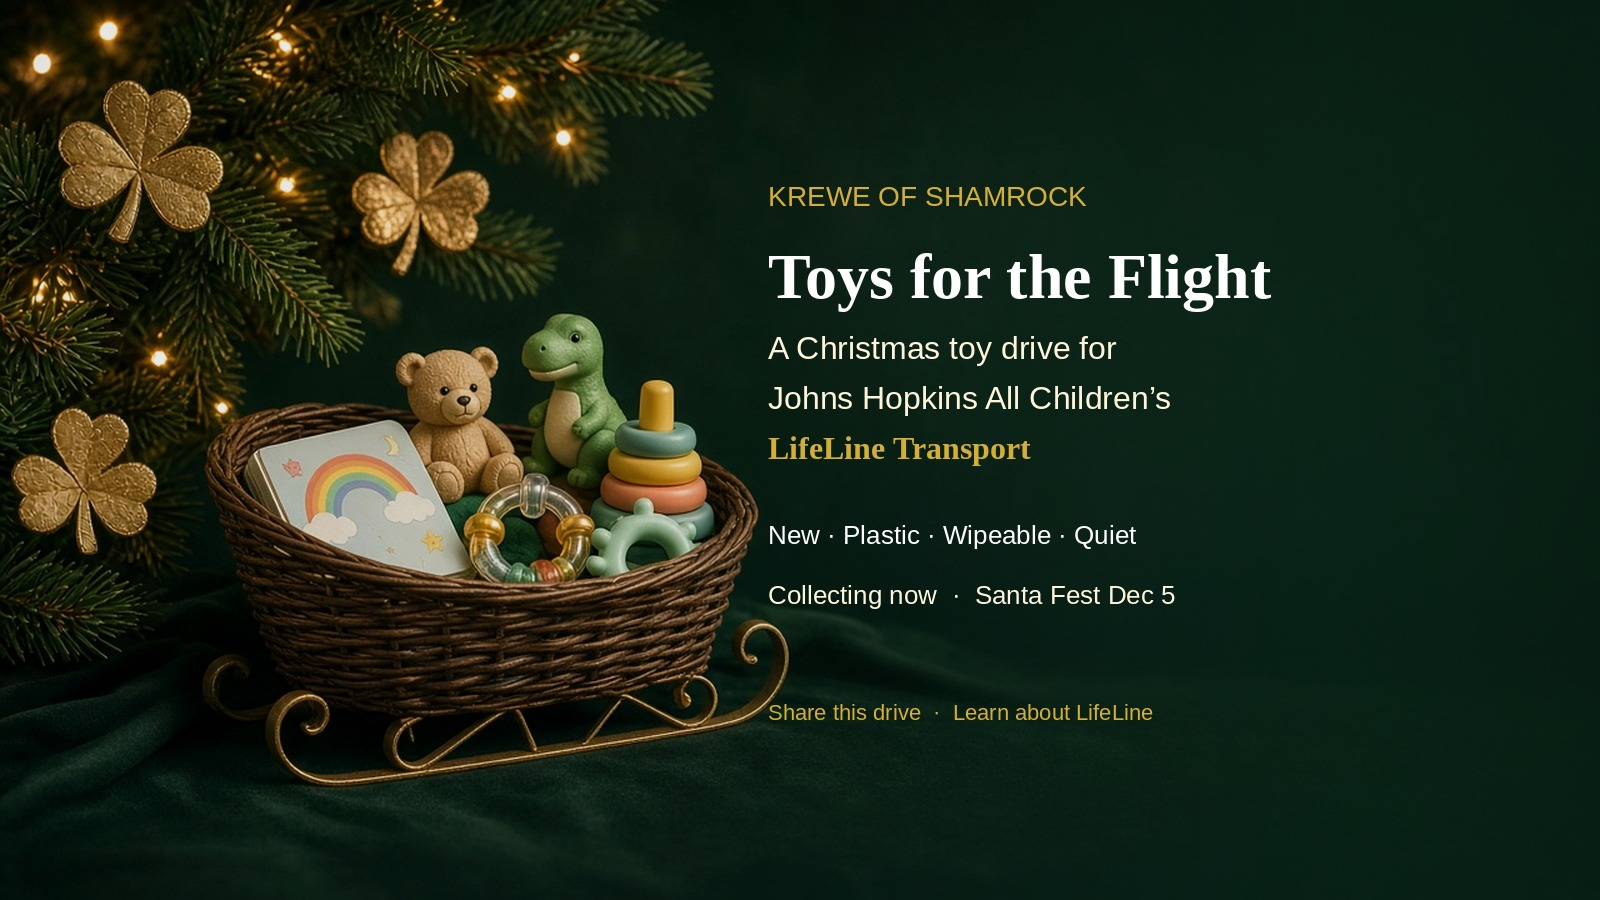
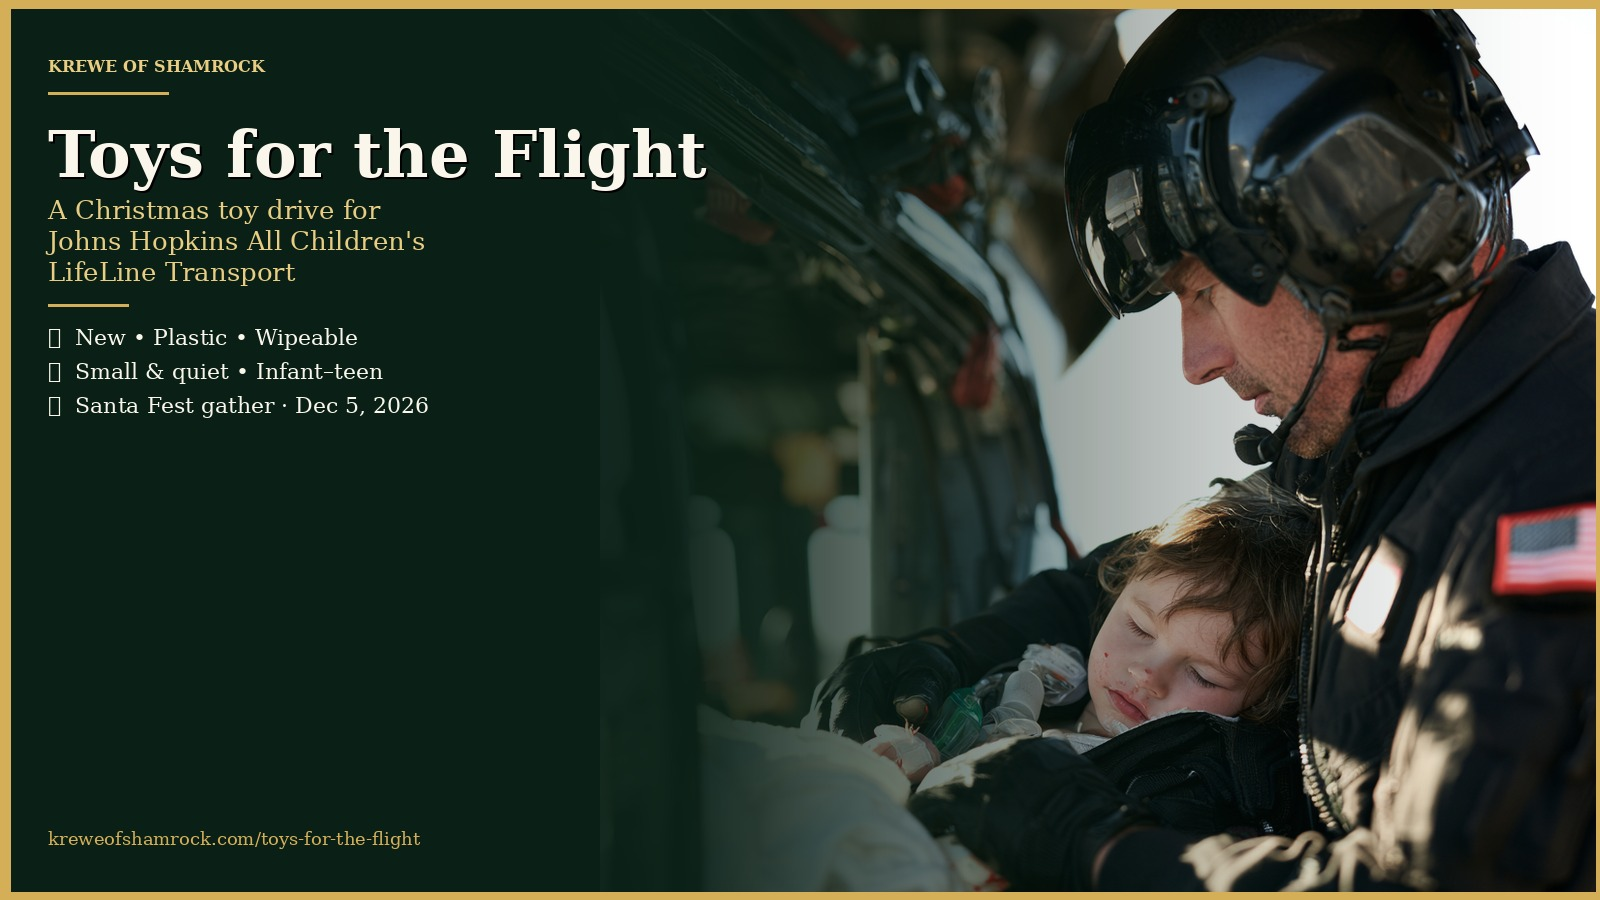
Swap Toys for the Flight creatives to official LifeLine photos
Replace placeholder sleigh graphics with Melissa's LifeLine hero banner, square share art, volunteer card, and the raw photo asset.

diff --git a/toys-for-the-flight.html b/toys-for-the-flight.html
@@ -18,7 +18,7 @@
 <meta property="og:description" content="A Christmas toy drive for Johns Hopkins All Children's LifeLine Transport. Collecting now through Santa Fest, Saturday, December 5, 2026." />
 <meta property="og:url" content="https://kreweofshamrock.com/toys-for-the-flight.html" />
 <meta property="og:image" content="https://kreweofshamrock.com/assets/img/toys-for-the-flight-ad.jpg" />
-<meta property="og:image:alt" content="Sleigh basket of small toys under a gold-shamrock Christmas tree: Toys for the Flight" />
+<meta property="og:image:alt" content="Toys for the Flight: a LifeLine crew member holds a child during transport" />
 <meta name="twitter:card" content="summary_large_image" />
 <meta name="twitter:title" content="Toys for the Flight · Krewe of Shamrock" />
 <meta name="twitter:description" content="A Christmas toy drive for Johns Hopkins All Children's LifeLine Transport." />
@@ -26,10 +26,14 @@
 <link rel="preconnect" href="https://fonts.googleapis.com">
 <link rel="preconnect" href="https://fonts.gstatic.com" crossorigin>
 <link href="https://fonts.googleapis.com/css2?family=Cinzel:wght@500;600;700&family=Cormorant+Garamond:ital,wght@0,500;0,600;1,500;1,600&family=EB+Garamond:ital@0;1&display=swap" rel="stylesheet">
-<link rel="stylesheet" href="assets/krewe.css?v=20260920toys1" />
+<link rel="stylesheet" href="assets/krewe.css?v=20260920toys2" />
 <style>
-  .toys-hero-art{ max-width:920px; margin:0 auto 8px; }
-  .toys-hero-art img{ width:100%; height:auto; display:block; border-radius:10px; }
+  .toys-ad-hero{ background:#070b08; border-bottom:5px solid var(--gold); }
+  .toys-ad-hero img{ width:100%; height:auto; display:block; margin:0 auto; }
+  .toys-lead{ text-align:center; }
+  .toys-lead h1{ color:#fff; font-size:clamp(30px,5vw,46px); margin:0; letter-spacing:1px; text-shadow:0 3px 18px rgba(0,0,0,.5); }
+  .toys-lead .eyebrow{ font-family:var(--fancy); font-style:italic; color:var(--gold-light); font-size:18px; margin:0 0 6px; letter-spacing:.6px; }
+  .toys-lead .sub{ margin:10px auto 0; max-width:640px; font-family:var(--fancy); font-size:20px; color:#f1ead4; }
   .toys-facts{ display:grid; grid-template-columns:repeat(3,1fr); gap:18px; margin-top:28px; }
   .toys-facts .fact{
     background:rgba(255,255,255,.06); border:1px solid rgba(236,208,126,.45);
@@ -121,19 +125,15 @@
     </div>
   </nav>
 
-  <header class="page-head">
-    <div class="ph-bg" style="background-image:url('assets/img/toys-for-the-flight-ad.jpg')"></div>
-    <p class="eyebrow">Krewe of Shamrock · Christmas toy drive</p>
-    <h1>Toys for the Flight</h1>
-    <p class="sub">A Christmas toy drive for Johns Hopkins All Children's LifeLine Transport</p>
+  <header class="toys-ad-hero">
+    <img src="assets/img/toys-for-the-flight-ad.jpg" alt="Toys for the Flight campaign banner: a LifeLine crew member holds a sleeping child during transport. Christmas toy drive for Johns Hopkins All Children's LifeLine Transport." />
   </header>
 
   <section class="band band-green">
-    <div class="wrap">
-      <div class="toys-hero-art framed ornate">
-        <span class="crn tr"></span><span class="crn bl"></span>
-        <img src="assets/img/toys-for-the-flight-ad.jpg" alt="Sleigh basket of small toys beneath a gold-shamrock Christmas tree, with the Toys for the Flight campaign title" />
-      </div>
+    <div class="wrap toys-lead">
+      <p class="eyebrow">Krewe of Shamrock · Christmas toy drive</p>
+      <h1>Toys for the Flight</h1>
+      <p class="sub">A Christmas toy drive for Johns Hopkins All Children's LifeLine Transport</p>
       <div class="btns" style="margin-top:26px;">
         <a class="btn btn-primary" id="lifelineCta" href="https://www.hopkinsmedicine.org/all-childrens-hospital/services/transport-team" target="_blank" rel="noopener noreferrer">Learn about LifeLine →</a>
         <button class="btn btn-outline" type="button" id="shareCampaignBtn">Share this page</button>
@@ -151,7 +151,7 @@
       <div class="ft-media">
         <div class="framed ornate">
           <span class="crn tr"></span><span class="crn bl"></span>
-          <img src="assets/img/toys-for-the-flight-square.jpg" alt="Square campaign art: a wicker sleigh of handheld toys and the Toys for the Flight title" />
+          <img src="assets/img/toys-for-the-flight-square.jpg" alt="Square campaign art: LifeLine crew member holding a child, Toys for the Flight" />
         </div>
       </div>
       <div class="ft-text">

diff --git a/volunteer.html b/volunteer.html
@@ -49,9 +49,17 @@
     color:var(--gold-light); font-family:var(--display);
     font-size:13px; letter-spacing:.8px; text-transform:uppercase;
   }
-  .toys-promo .feature{ position:relative; }
-  .toys-promo .ft-text h2{ font-size:clamp(28px,4vw,40px); color:var(--green-800); }
+  .toys-promo .card-link{
+    display:block; border-radius:16px; overflow:hidden;
+    box-shadow:var(--shadow); background:
+      linear-gradient(135deg,var(--gold-light),var(--gold) 45%,var(--gold-deep));
+    padding:8px;
+  }
+  .toys-promo .card-link img{ width:100%; height:auto; display:block; border-radius:10px; }
+  .toys-promo-copy{ position:relative; margin-top:26px; text-align:center; max-width:760px; margin-left:auto; margin-right:auto; }
+  .toys-promo-copy h2{ font-size:clamp(28px,4vw,40px); color:var(--green-800); margin:0 0 10px; }
   .toys-promo .needles{ margin:0 0 18px; color:var(--muted); font-size:18px; font-family:var(--fancy); font-style:italic; }
+  .toys-promo-copy .btns{ justify-content:center; }
   @media (max-width:760px){ .charity-grid,.charity-grid.two,.impact,.past-list{ grid-template-columns:1fr; } }
 </style>
 </head>
@@ -115,22 +123,17 @@
 
   <section class="toys-promo" id="toys-for-the-flight" aria-labelledby="toysPromoTitle">
     <div class="wrap">
-      <div class="feature" style="align-items:center;">
-        <div class="ft-media">
-          <div class="framed ornate">
-            <span class="crn tr"></span><span class="crn bl"></span>
-            <img src="assets/img/toys-for-the-flight-ad.jpg" alt="Toys for the Flight: a Christmas toy drive for Johns Hopkins All Children's LifeLine Transport" />
-          </div>
-        </div>
-        <div class="ft-text">
-          <span class="season-pill">Christmas campaign · Collecting now</span>
-          <h2 id="toysPromoTitle">Toys for the Flight</h2>
-          <p>A Christmas toy drive for Johns Hopkins All Children's LifeLine Transport. Small, new, wipeable toys help comfort critically ill and injured children on ambulance, helicopter, and aircraft transports.</p>
-          <p class="needles">Gathering around Santa Fest · Sat, Dec 5, 2026. Drop and gather locations coming soon.</p>
-          <div class="btns" style="justify-content:flex-start;">
-            <a class="btn btn-primary" href="toys-for-the-flight.html">See the drive →</a>
-            <a class="btn btn-green" href="https://www.hopkinsmedicine.org/all-childrens-hospital/services/transport-team" target="_blank" rel="noopener noreferrer">Learn about LifeLine</a>
-          </div>
+      <a class="card-link" href="toys-for-the-flight.html">
+        <img src="assets/img/toys-for-the-flight-volunteer-card.jpg" alt="Toys for the Flight: a Christmas toy drive for Johns Hopkins All Children's LifeLine Transport" />
+      </a>
+      <div class="toys-promo-copy">
+        <span class="season-pill">Christmas campaign · Collecting now</span>
+        <h2 id="toysPromoTitle">Toys for the Flight</h2>
+        <p>A Christmas toy drive for Johns Hopkins All Children's LifeLine Transport. Small, new, wipeable toys help comfort critically ill and injured children on ambulance, helicopter, and aircraft transports.</p>
+        <p class="needles">Gathering around Santa Fest · Sat, Dec 5, 2026. Drop and gather locations coming soon.</p>
+        <div class="btns">
+          <a class="btn btn-primary" href="toys-for-the-flight.html">See the drive →</a>
+          <a class="btn btn-green" href="https://www.hopkinsmedicine.org/all-childrens-hospital/services/transport-team" target="_blank" rel="noopener noreferrer">Learn about LifeLine</a>
         </div>
       </div>
     </div>

diff --git a/tests/specs/toys-for-the-flight.spec.js b/tests/specs/toys-for-the-flight.spec.js
@@ -12,7 +12,10 @@ test("volunteer.html promotes Toys for the Flight and links to LifeLine", async 
   const promo = page.locator("#toys-for-the-flight");
   await expect(promo).toBeVisible();
   await expect(promo.getByRole("heading", { name: "Toys for the Flight" })).toBeVisible();
-  await expect(promo.getByRole("img", { name: /Toys for the Flight/i })).toBeVisible();
+  await expect(promo.getByRole("img", { name: /Toys for the Flight/i })).toHaveAttribute(
+    "src",
+    /toys-for-the-flight-volunteer-card\.jpg/
+  );
   await expect(promo.getByRole("link", { name: /See the drive/i })).toHaveAttribute(
     "href",
     "toys-for-the-flight.html"
@@ -49,7 +52,8 @@ test("toys-for-the-flight.html is shareable and points to LifeLine", async ({ pa
   await page.locator("#shareCampaignBtn").click();
   await expect(page.locator("#shareStatus")).not.toHaveText("");
 
-  await expect(page.getByRole("img", { name: /sleigh basket/i })).toBeVisible();
+  await expect(page.getByRole("img", { name: /campaign banner/i })).toBeVisible();
   await expect(page.getByRole("img", { name: /Square campaign art/i })).toBeVisible();
+  await expect(page.locator(".toys-ad-hero img")).toHaveAttribute("src", /toys-for-the-flight-ad\.jpg/);
   assertHealthy(expect, report, "toys campaign page");
 });
